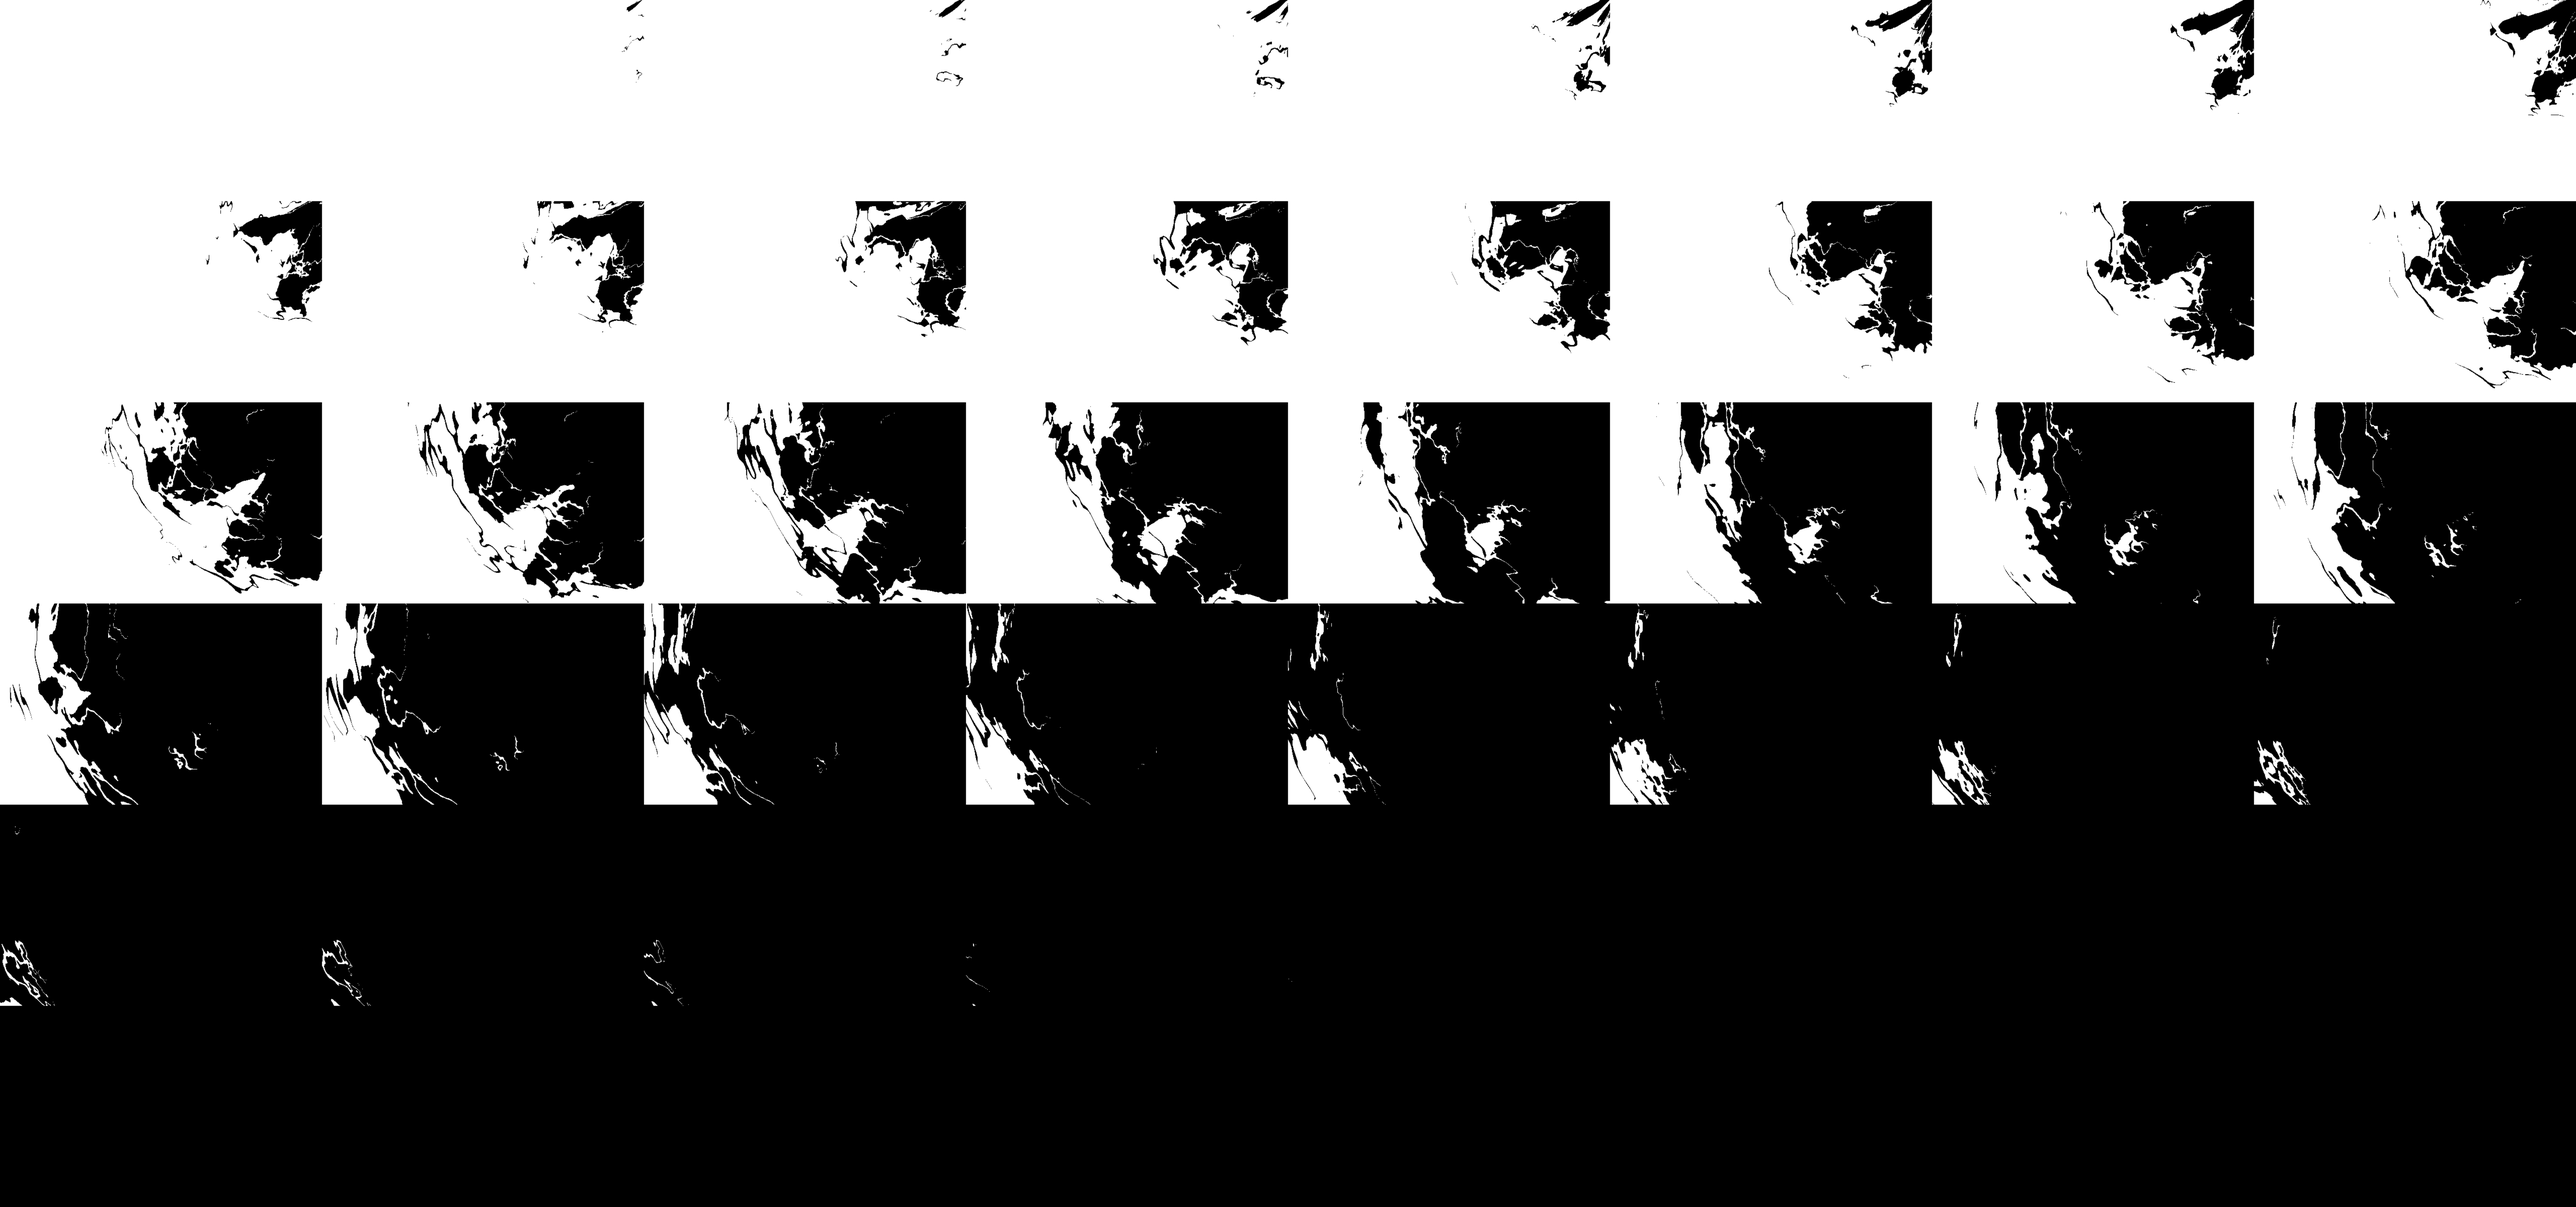
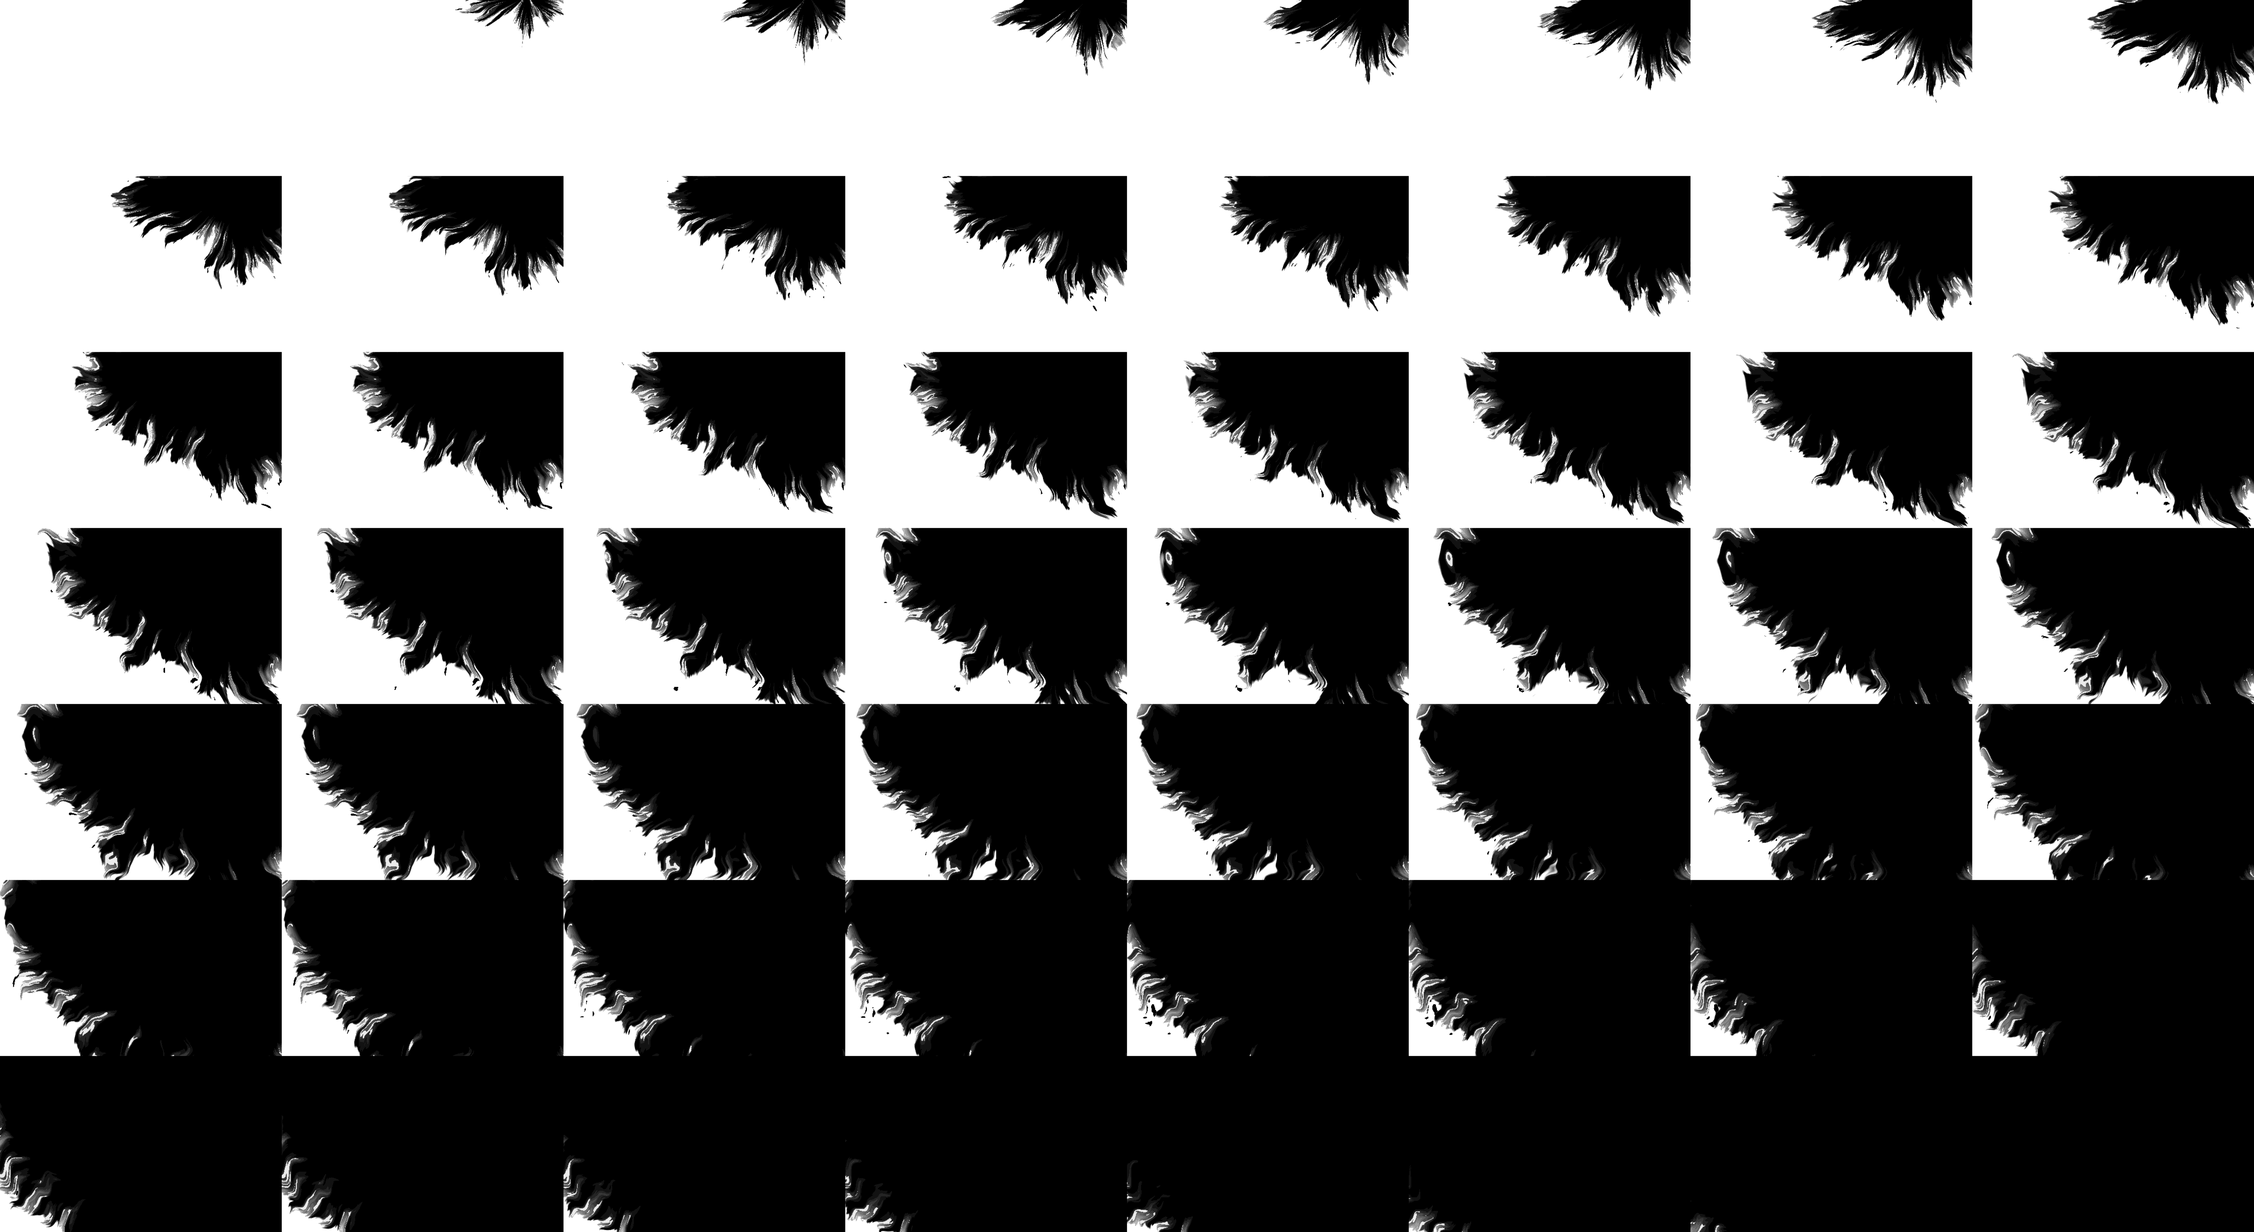
Theme switch: ink-splash transition matched to reference

diff --git a/app/globals.css b/app/globals.css
@@ -56,15 +56,14 @@
 /* ------------------------------------------------------------------ */
 /* Theme switch — ink transition                                      */
 /* ------------------------------------------------------------------ */
-/* "Venom" switch: the new theme crawls over the old one as a living band
-   of liquid — streaks and tendrils stretched along its edge, reaching ahead
-   and leaving marbled gaps behind — sweeping out from the toggle in the
-   top-right corner. It uses the View Transitions API: the browser snapshots
-   the old page, we flip the theme, and the new page is shown through an
-   animated mask. The mask is a 48-frame flipbook (8 x 6 grid in
-   /public/theme/venom-mask.webp, generated procedurally — the edge writhes
-   frame to frame instead of just growing). Browsers without the API simply
-   switch instantly. */
+/* "Venom" switch: an ink splat bursts out of the toggle (top-right) and
+   floods the page — spiky fingers pointing outward, a wide band of smeared,
+   half-transparent streaks and marbled gaps at the edge, droplets thrown
+   ahead; a fast first burst and a long soft tail (~1.9 s). It uses the View
+   Transitions API: the browser snapshots the old page, we flip the theme,
+   and the new page is shown through an animated mask — a 56-frame flipbook
+   (8 x 7 grid in /public/theme/venom-mask.webp, generated procedurally).
+   Browsers without the API simply switch instantly. */
 ::view-transition-old(root),
 ::view-transition-new(root) {
   animation: none;
@@ -73,62 +72,70 @@
 html.theme-ink::view-transition-new(root) {
   -webkit-mask-image: url("/theme/venom-mask.webp");
   mask-image: url("/theme/venom-mask.webp");
-  -webkit-mask-size: 800% 600%;
-  mask-size: 800% 600%;
+  -webkit-mask-size: 800% 700%;
+  mask-size: 800% 700%;
   -webkit-mask-repeat: no-repeat;
   mask-repeat: no-repeat;
   -webkit-mask-position: 0% 0%;
   mask-position: 0% 0%;
-  animation: venomReveal 1.7s steps(1, end) forwards;
+  animation: venomReveal 1.9s steps(1, end) forwards;
 }
 @keyframes venomReveal {
   0.0% { -webkit-mask-position: 0.0% 0.0%; mask-position: 0.0% 0.0%; }
-  2.128% { -webkit-mask-position: 14.2857% 0.0%; mask-position: 14.2857% 0.0%; }
-  4.255% { -webkit-mask-position: 28.5714% 0.0%; mask-position: 28.5714% 0.0%; }
-  6.383% { -webkit-mask-position: 42.8571% 0.0%; mask-position: 42.8571% 0.0%; }
-  8.511% { -webkit-mask-position: 57.1429% 0.0%; mask-position: 57.1429% 0.0%; }
-  10.638% { -webkit-mask-position: 71.4286% 0.0%; mask-position: 71.4286% 0.0%; }
-  12.766% { -webkit-mask-position: 85.7143% 0.0%; mask-position: 85.7143% 0.0%; }
-  14.894% { -webkit-mask-position: 100.0% 0.0%; mask-position: 100.0% 0.0%; }
-  17.021% { -webkit-mask-position: 0.0% 20.0%; mask-position: 0.0% 20.0%; }
-  19.149% { -webkit-mask-position: 14.2857% 20.0%; mask-position: 14.2857% 20.0%; }
-  21.277% { -webkit-mask-position: 28.5714% 20.0%; mask-position: 28.5714% 20.0%; }
-  23.404% { -webkit-mask-position: 42.8571% 20.0%; mask-position: 42.8571% 20.0%; }
-  25.532% { -webkit-mask-position: 57.1429% 20.0%; mask-position: 57.1429% 20.0%; }
-  27.66% { -webkit-mask-position: 71.4286% 20.0%; mask-position: 71.4286% 20.0%; }
-  29.787% { -webkit-mask-position: 85.7143% 20.0%; mask-position: 85.7143% 20.0%; }
-  31.915% { -webkit-mask-position: 100.0% 20.0%; mask-position: 100.0% 20.0%; }
-  34.043% { -webkit-mask-position: 0.0% 40.0%; mask-position: 0.0% 40.0%; }
-  36.17% { -webkit-mask-position: 14.2857% 40.0%; mask-position: 14.2857% 40.0%; }
-  38.298% { -webkit-mask-position: 28.5714% 40.0%; mask-position: 28.5714% 40.0%; }
-  40.426% { -webkit-mask-position: 42.8571% 40.0%; mask-position: 42.8571% 40.0%; }
-  42.553% { -webkit-mask-position: 57.1429% 40.0%; mask-position: 57.1429% 40.0%; }
-  44.681% { -webkit-mask-position: 71.4286% 40.0%; mask-position: 71.4286% 40.0%; }
-  46.809% { -webkit-mask-position: 85.7143% 40.0%; mask-position: 85.7143% 40.0%; }
-  48.936% { -webkit-mask-position: 100.0% 40.0%; mask-position: 100.0% 40.0%; }
-  51.064% { -webkit-mask-position: 0.0% 60.0%; mask-position: 0.0% 60.0%; }
-  53.191% { -webkit-mask-position: 14.2857% 60.0%; mask-position: 14.2857% 60.0%; }
-  55.319% { -webkit-mask-position: 28.5714% 60.0%; mask-position: 28.5714% 60.0%; }
-  57.447% { -webkit-mask-position: 42.8571% 60.0%; mask-position: 42.8571% 60.0%; }
-  59.574% { -webkit-mask-position: 57.1429% 60.0%; mask-position: 57.1429% 60.0%; }
-  61.702% { -webkit-mask-position: 71.4286% 60.0%; mask-position: 71.4286% 60.0%; }
-  63.83% { -webkit-mask-position: 85.7143% 60.0%; mask-position: 85.7143% 60.0%; }
-  65.957% { -webkit-mask-position: 100.0% 60.0%; mask-position: 100.0% 60.0%; }
-  68.085% { -webkit-mask-position: 0.0% 80.0%; mask-position: 0.0% 80.0%; }
-  70.213% { -webkit-mask-position: 14.2857% 80.0%; mask-position: 14.2857% 80.0%; }
-  72.34% { -webkit-mask-position: 28.5714% 80.0%; mask-position: 28.5714% 80.0%; }
-  74.468% { -webkit-mask-position: 42.8571% 80.0%; mask-position: 42.8571% 80.0%; }
-  76.596% { -webkit-mask-position: 57.1429% 80.0%; mask-position: 57.1429% 80.0%; }
-  78.723% { -webkit-mask-position: 71.4286% 80.0%; mask-position: 71.4286% 80.0%; }
-  80.851% { -webkit-mask-position: 85.7143% 80.0%; mask-position: 85.7143% 80.0%; }
-  82.979% { -webkit-mask-position: 100.0% 80.0%; mask-position: 100.0% 80.0%; }
-  85.106% { -webkit-mask-position: 0.0% 100.0%; mask-position: 0.0% 100.0%; }
-  87.234% { -webkit-mask-position: 14.2857% 100.0%; mask-position: 14.2857% 100.0%; }
-  89.362% { -webkit-mask-position: 28.5714% 100.0%; mask-position: 28.5714% 100.0%; }
-  91.489% { -webkit-mask-position: 42.8571% 100.0%; mask-position: 42.8571% 100.0%; }
-  93.617% { -webkit-mask-position: 57.1429% 100.0%; mask-position: 57.1429% 100.0%; }
-  95.745% { -webkit-mask-position: 71.4286% 100.0%; mask-position: 71.4286% 100.0%; }
-  97.872% { -webkit-mask-position: 85.7143% 100.0%; mask-position: 85.7143% 100.0%; }
+  1.818% { -webkit-mask-position: 14.2857% 0.0%; mask-position: 14.2857% 0.0%; }
+  3.636% { -webkit-mask-position: 28.5714% 0.0%; mask-position: 28.5714% 0.0%; }
+  5.455% { -webkit-mask-position: 42.8571% 0.0%; mask-position: 42.8571% 0.0%; }
+  7.273% { -webkit-mask-position: 57.1429% 0.0%; mask-position: 57.1429% 0.0%; }
+  9.091% { -webkit-mask-position: 71.4286% 0.0%; mask-position: 71.4286% 0.0%; }
+  10.909% { -webkit-mask-position: 85.7143% 0.0%; mask-position: 85.7143% 0.0%; }
+  12.727% { -webkit-mask-position: 100.0% 0.0%; mask-position: 100.0% 0.0%; }
+  14.545% { -webkit-mask-position: 0.0% 16.6667%; mask-position: 0.0% 16.6667%; }
+  16.364% { -webkit-mask-position: 14.2857% 16.6667%; mask-position: 14.2857% 16.6667%; }
+  18.182% { -webkit-mask-position: 28.5714% 16.6667%; mask-position: 28.5714% 16.6667%; }
+  20.0% { -webkit-mask-position: 42.8571% 16.6667%; mask-position: 42.8571% 16.6667%; }
+  21.818% { -webkit-mask-position: 57.1429% 16.6667%; mask-position: 57.1429% 16.6667%; }
+  23.636% { -webkit-mask-position: 71.4286% 16.6667%; mask-position: 71.4286% 16.6667%; }
+  25.455% { -webkit-mask-position: 85.7143% 16.6667%; mask-position: 85.7143% 16.6667%; }
+  27.273% { -webkit-mask-position: 100.0% 16.6667%; mask-position: 100.0% 16.6667%; }
+  29.091% { -webkit-mask-position: 0.0% 33.3333%; mask-position: 0.0% 33.3333%; }
+  30.909% { -webkit-mask-position: 14.2857% 33.3333%; mask-position: 14.2857% 33.3333%; }
+  32.727% { -webkit-mask-position: 28.5714% 33.3333%; mask-position: 28.5714% 33.3333%; }
+  34.545% { -webkit-mask-position: 42.8571% 33.3333%; mask-position: 42.8571% 33.3333%; }
+  36.364% { -webkit-mask-position: 57.1429% 33.3333%; mask-position: 57.1429% 33.3333%; }
+  38.182% { -webkit-mask-position: 71.4286% 33.3333%; mask-position: 71.4286% 33.3333%; }
+  40.0% { -webkit-mask-position: 85.7143% 33.3333%; mask-position: 85.7143% 33.3333%; }
+  41.818% { -webkit-mask-position: 100.0% 33.3333%; mask-position: 100.0% 33.3333%; }
+  43.636% { -webkit-mask-position: 0.0% 50.0%; mask-position: 0.0% 50.0%; }
+  45.455% { -webkit-mask-position: 14.2857% 50.0%; mask-position: 14.2857% 50.0%; }
+  47.273% { -webkit-mask-position: 28.5714% 50.0%; mask-position: 28.5714% 50.0%; }
+  49.091% { -webkit-mask-position: 42.8571% 50.0%; mask-position: 42.8571% 50.0%; }
+  50.909% { -webkit-mask-position: 57.1429% 50.0%; mask-position: 57.1429% 50.0%; }
+  52.727% { -webkit-mask-position: 71.4286% 50.0%; mask-position: 71.4286% 50.0%; }
+  54.545% { -webkit-mask-position: 85.7143% 50.0%; mask-position: 85.7143% 50.0%; }
+  56.364% { -webkit-mask-position: 100.0% 50.0%; mask-position: 100.0% 50.0%; }
+  58.182% { -webkit-mask-position: 0.0% 66.6667%; mask-position: 0.0% 66.6667%; }
+  60.0% { -webkit-mask-position: 14.2857% 66.6667%; mask-position: 14.2857% 66.6667%; }
+  61.818% { -webkit-mask-position: 28.5714% 66.6667%; mask-position: 28.5714% 66.6667%; }
+  63.636% { -webkit-mask-position: 42.8571% 66.6667%; mask-position: 42.8571% 66.6667%; }
+  65.455% { -webkit-mask-position: 57.1429% 66.6667%; mask-position: 57.1429% 66.6667%; }
+  67.273% { -webkit-mask-position: 71.4286% 66.6667%; mask-position: 71.4286% 66.6667%; }
+  69.091% { -webkit-mask-position: 85.7143% 66.6667%; mask-position: 85.7143% 66.6667%; }
+  70.909% { -webkit-mask-position: 100.0% 66.6667%; mask-position: 100.0% 66.6667%; }
+  72.727% { -webkit-mask-position: 0.0% 83.3333%; mask-position: 0.0% 83.3333%; }
+  74.545% { -webkit-mask-position: 14.2857% 83.3333%; mask-position: 14.2857% 83.3333%; }
+  76.364% { -webkit-mask-position: 28.5714% 83.3333%; mask-position: 28.5714% 83.3333%; }
+  78.182% { -webkit-mask-position: 42.8571% 83.3333%; mask-position: 42.8571% 83.3333%; }
+  80.0% { -webkit-mask-position: 57.1429% 83.3333%; mask-position: 57.1429% 83.3333%; }
+  81.818% { -webkit-mask-position: 71.4286% 83.3333%; mask-position: 71.4286% 83.3333%; }
+  83.636% { -webkit-mask-position: 85.7143% 83.3333%; mask-position: 85.7143% 83.3333%; }
+  85.455% { -webkit-mask-position: 100.0% 83.3333%; mask-position: 100.0% 83.3333%; }
+  87.273% { -webkit-mask-position: 0.0% 100.0%; mask-position: 0.0% 100.0%; }
+  89.091% { -webkit-mask-position: 14.2857% 100.0%; mask-position: 14.2857% 100.0%; }
+  90.909% { -webkit-mask-position: 28.5714% 100.0%; mask-position: 28.5714% 100.0%; }
+  92.727% { -webkit-mask-position: 42.8571% 100.0%; mask-position: 42.8571% 100.0%; }
+  94.545% { -webkit-mask-position: 57.1429% 100.0%; mask-position: 57.1429% 100.0%; }
+  96.364% { -webkit-mask-position: 71.4286% 100.0%; mask-position: 71.4286% 100.0%; }
+  98.182% { -webkit-mask-position: 85.7143% 100.0%; mask-position: 85.7143% 100.0%; }
   100.0% { -webkit-mask-position: 100.0% 100.0%; mask-position: 100.0% 100.0%; }
 }
 
